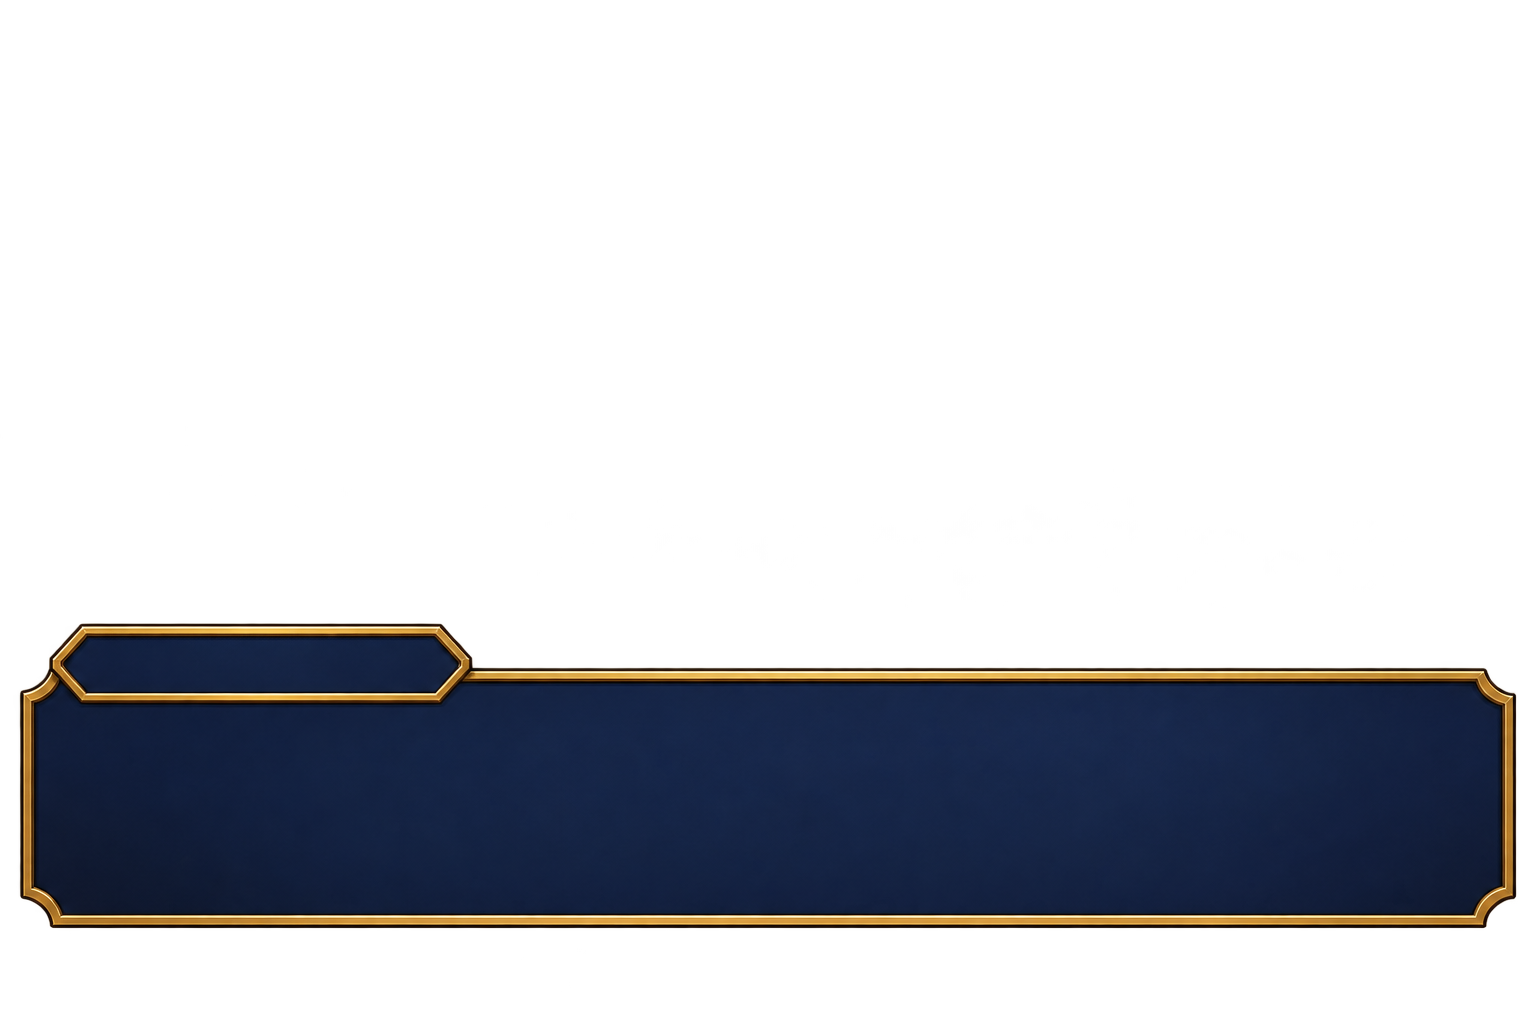
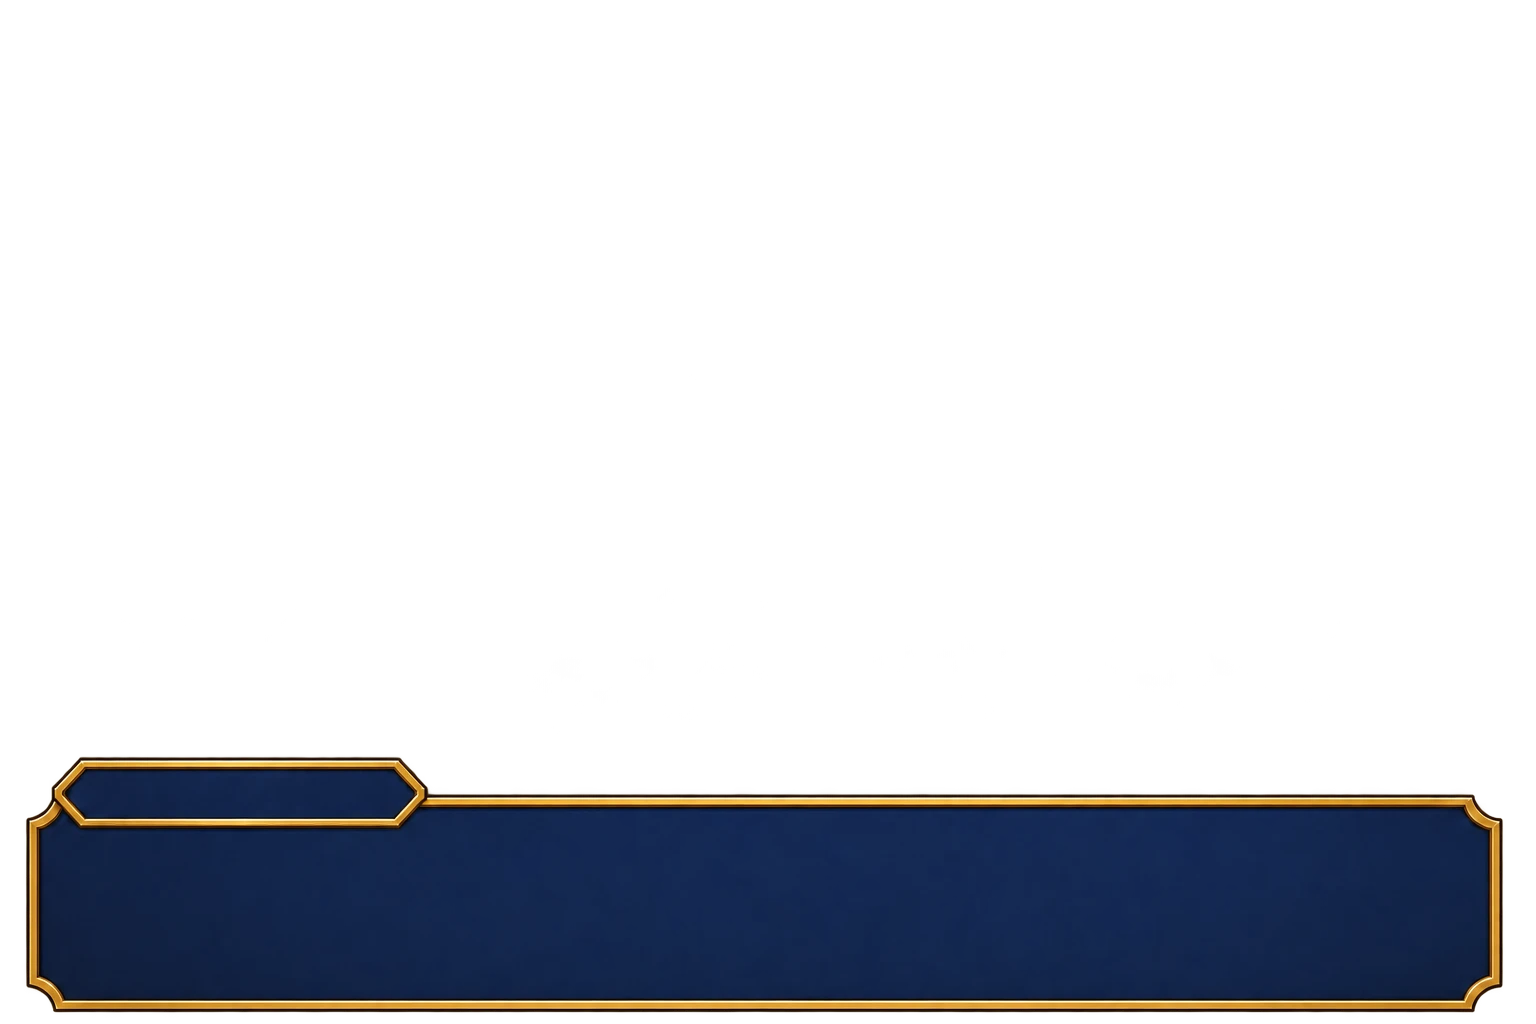
대사창을 얇은 새 그림으로 바꾸고 화면 아래로 50픽셀 내림
Claude-Session: https://claude.ai/code/session_01NHYzrX55wKaEEAPmcQpN8C

Changed region(s): [[0.0, 0.5938, 1.0, 1.0]]

diff --git a/docs/스프라이트_목록.md b/docs/스프라이트_목록.md
@@ -459,7 +459,7 @@ ChatGPT에 한 번에 여러 장(따로 된 그림)을 요청해서 만든다.
 
 | 파일 | 내용 | 상태 |
 |---|---|---|
-| `textbox` | 대사창과 이름칸을 합친 한 장. 화면 크기(1536×1024)에 창만 아래쪽에 있고 나머지는 투명. 높이는 화면의 약 5분의 1. 대사와 이름 글자는 게임에서 띄우고, 창은 게임에서 조금 반투명하게 띄운다 | 고치는 중 |
+| `textbox` | 대사창과 이름칸을 합친 한 장. 화면 크기(1536×1024)에 창만 아래쪽에 있고 나머지는 투명. 높이는 화면의 약 5분의 1. 대사와 이름 글자는 게임에서 띄우고, 창은 게임에서 조금 반투명하게 띄운다 | 완료 |
 | `icon_next` | 다음 화살표 (») | 완료 |
 
 ### 7-4. 카드 틀
@@ -536,6 +536,6 @@ ChatGPT에 한 번에 여러 장(따로 된 그림)을 요청해서 만든다.
 2. 고정 인물 기본 상반신 (완료)
 3. 고정 인물 나머지 표정 (완료)
 4. 법정 배경 8장과 책상 앞그림 4장 (완료)
-5. UI (외침, 띠 완료. 대사창 고치는 중. 카드, 버튼, 알림, 큰 화면 남음)
+5. UI (외침, 띠, 대사창 완료. 카드, 버튼, 알림, 큰 화면 남음)
 6. 1화에 필요한 그림 (`ref_ep1_1`, `ref_ep1_2`, 1화 인물 상반신, 1화 배경과 증거)
 7. 2화부터 차례로
